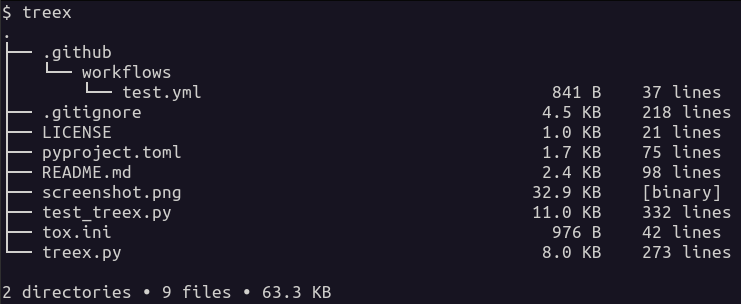
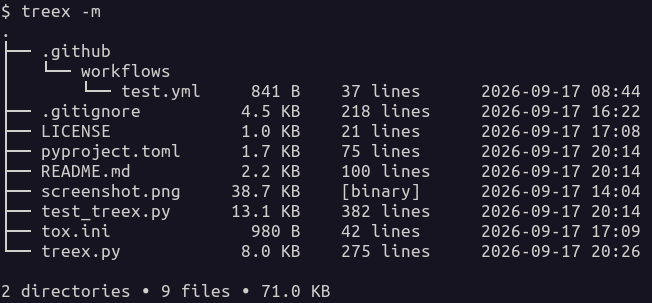
Make metadata column start automatically adjust (#2)

diff --git a/treex.py b/treex.py
@@ -2,21 +2,14 @@
 # SPDX-License-Identifier: MIT
 
 
-"""List directory contents in a tree-like format with file metadata.
+"""List directory contents as a tree with file metadata.
 
-The directory tree is rendered using Unicode box-drawing characters. File names are
-displayed with their human-readable size and, optionally, modification time. Text
-files also include their line count. Binary and unreadable files are marked with
-their type.
+The directory tree is rendered using Unicode box-drawing characters.
 
 When run inside a Git repository, files and directories ignored by Git
 are automatically excluded using Git's own ignore rules. If Git is not
 installed, or the directory is not part of a Git repository, the
 filesystem is scanned normally without Git filtering.
-
-Use --all to disable Git ignore filtering and show all files.
-Use --width to control the column at which file metadata starts.
-Use --modified to show file modification times.
 """
 
 import argparse
@@ -24,8 +17,6 @@ import subprocess
 from contextlib import suppress
 from datetime import datetime
 from pathlib import Path
-
-DEFAULT_METADATA_COLUMN = 50
 
 
 class GitIgnore:
@@ -132,76 +123,98 @@ def file_info(path):
     return size_text, f"{lines:,} lines", size, modified
 
 
-def print_tree(
-    directory,
-    prefix="",
-    stats=None,
-    gitignore=None,
-    width=DEFAULT_METADATA_COLUMN,
-    show_modified=False,
-    show_tree=True,
-):
-    """Recursively print the directory tree."""
-
-    def display(message):
-        if show_tree:
-            print(message)
-
-    if stats is None:
-        stats = {
-            "directories": 0,
-            "files": 0,
-            "total_size": 0,
-        }
-    path = Path(directory)
+def _get_tree_entries(path, gitignore):
+    """Get entries to include in the tree."""
     try:
         entries = list(path.iterdir())
     except PermissionError:
-        display(prefix + "└── [permission denied]")
-        return stats
+        return None
     # Filter ignored entries and Git's internal directory
-    visible_entries = [
+    entries = [
         entry
         for entry in entries
-        if not gitignore or (entry.name != ".git" and not gitignore.ignored(entry))
+        if not entry.is_symlink()
+        and (not gitignore or (entry.name != ".git" and not gitignore.ignored(entry)))
     ]
-    # Sort directories before files, group symlinks
-    # by target type, and sort names case-insensitive.
-    visible_entries.sort(key=lambda p: (p.is_file(), p.name.casefold()))
-    for index, entry in enumerate(visible_entries):
-        is_last = index == len(visible_entries) - 1
+    # Group directories first and sort names case-insensitive
+    entries.sort(key=lambda p: (p.is_file(), p.name.casefold()))
+    return entries
+
+
+def _collect_tree(
+    path,
+    prefix,
+    stats,
+    gitignore,
+    rows,
+    show_modified,
+):
+    """Walk the tree once and collect the output rows."""
+    entries = _get_tree_entries(path, gitignore)
+    if entries is None:
+        rows.append((prefix + "└── [permission denied]", None))
+        return
+    for index, entry in enumerate(entries):
+        is_last = index == len(entries) - 1
         connector = "└── " if is_last else "├── "
+        tree_name = prefix + connector + entry.name
         if entry.is_dir():
             stats["directories"] += 1
-            display(f"{prefix}{connector}{entry.name}")
+            rows.append((tree_name, None))
+            # Indent nested entries, preserving the tree's vertical branch
             extension = "    " if is_last else "│   "
-            print_tree(
+            _collect_tree(
                 entry,
                 prefix + extension,
                 stats,
                 gitignore,
-                width,
+                rows,
                 show_modified,
-                show_tree,
             )
         elif entry.is_file():
             stats["files"] += 1
             size_text, info, size, modified = file_info(entry)
             stats["total_size"] += size
-            # The complete tree/name portion is padded to the
-            # specified width so metadata lines up vertically.
-            tree_name = prefix + connector + entry.name
-            output = f"{tree_name:<{width}}{size_text:>10}    {info}"
-            if show_modified and modified is not None:
+            timestamp = modified if show_modified else None
+            rows.append((tree_name, (size_text, info, timestamp)))
+
+
+def print_tree(
+    directory,
+    prefix="",
+    stats=None,
+    gitignore=None,
+    show_modified=False,
+    show_tree=True,
+):
+    """Print the directory tree with aligned file metadata."""
+    if stats is None:
+        stats = {"directories": 0, "files": 0, "total_size": 0}
+    rows = []
+    # Walk the filesystem once and collect the output
+    _collect_tree(Path(directory), prefix, stats, gitignore, rows, show_modified)
+    if show_tree:
+        # Align file metadata with the longest tree/name
+        max_tree_name_width = max(
+            (len(tree_name) for tree_name, _ in rows),
+            default=0,
+        )
+        for tree_name, file_info_data in rows:
+            if file_info_data is None:
+                print(tree_name)
+                continue
+            size_text, info, modified = file_info_data
+            output = f"{tree_name:<{max_tree_name_width}}{size_text:>10}    {info:<10}"
+            if modified is not None:
                 output += f"    {modified}"
-            display(output)
+            print(output)
     return stats
 
 
 def parse_args(argv=None):
     """Parse command-line arguments."""
     parser = argparse.ArgumentParser(
-        description="List directory contents in a tree format with file metadata.",
+        description="List directory contents as a tree with file metadata.",
     )
     parser.add_argument(
         "directory",
@@ -228,14 +241,6 @@ def parse_args(argv=None):
         action="store_true",
         help="show summary only",
     )
-    parser.add_argument(
-        "-w",
-        "--width",
-        type=int,
-        default=DEFAULT_METADATA_COLUMN,
-        metavar="N",
-        help=f"starting column for file metadata (default: {DEFAULT_METADATA_COLUMN})",
-    )
     return parser.parse_args(argv)
 
 
@@ -245,9 +250,6 @@ def main():
     if not path.is_dir():
         print(f"Not a directory: {path}")
         return 1
-    if args.width < 1:
-        print("Width must be greater than zero.")
-        return 1
     # Only initialize Git support if it will be used
     gitignore = None if args.all else GitIgnore(path)
     show_tree = not args.summary
@@ -256,7 +258,6 @@ def main():
     stats = print_tree(
         path,
         gitignore=gitignore,
-        width=args.width,
         show_modified=args.modified,
         show_tree=show_tree,
     )

diff --git a/test_treex.py b/test_treex.py
@@ -284,6 +284,65 @@ class TestPrintTree:
         assert stats["directories"] == 0
         assert stats["files"] == 0
 
+    def test_tree_entries_sorted_with_directories_first(self, tmp_path):
+        (tmp_path / "zebra.txt").touch()
+        (tmp_path / "Alpha.txt").touch()
+        (tmp_path / "src").mkdir()
+        (tmp_path / "Docs").mkdir()
+        (tmp_path / ".git").mkdir()
+        entries = treex._get_tree_entries(tmp_path, gitignore=None)
+        assert [entry.name for entry in entries] == [
+            ".git",
+            "Docs",
+            "src",
+            "Alpha.txt",
+            "zebra.txt",
+        ]
+
+    def test_tree_entries_excludes_symlinks(self, tmp_path):
+        target = tmp_path / "target.txt"
+        target.touch()
+        link = tmp_path / "link.txt"
+        link.symlink_to(target)
+        entries = treex._get_tree_entries(tmp_path, gitignore=None)
+        assert [entry.name for entry in entries] == ["target.txt"]
+
+    def test_collect_tree(self, tmp_path):
+        (tmp_path / "src").mkdir()
+        (tmp_path / "src" / "main.py").write_text("print('hello')\n")
+        (tmp_path / "README.md").write_text("# README\n")
+        stats = {"directories": 0, "files": 0, "total_size": 0}
+        rows = []
+        treex._collect_tree(tmp_path, "", stats, None, rows, False)
+        assert [row[0] for row in rows] == [
+            "├── src",
+            "│   └── main.py",
+            "└── README.md",
+        ]
+        assert stats["directories"] == 1
+        assert stats["files"] == 2
+        assert stats["total_size"] == (len("print('hello')\n") + len("# README\n"))
+
+    def test_collect_tree_permission_denied(self, tmp_path):
+        rows = []
+        stats = {"directories": 0, "files": 0, "total_size": 0}
+
+        with patch.object(Path, "iterdir", side_effect=PermissionError):
+            treex._collect_tree(tmp_path, "", stats, None, rows, False)
+        assert rows == [("└── [permission denied]", None)]
+        assert stats["directories"] == 0
+        assert stats["files"] == 0
+        assert stats["total_size"] == 0
+
+    def test_tree_name_width_aligns_file_information(self, tmp_path, capsys):
+        (tmp_path / "a.txt").write_text("hello")
+        (tmp_path / "long_filename.txt").write_text("hello")
+        treex.print_tree(tmp_path)
+        lines = capsys.readouterr().out.splitlines()
+        size_positions = [line.index("5 B") for line in lines if ".txt" in line]
+        assert len(size_positions) == 2
+        assert size_positions[0] == size_positions[1]
+
 
 class TestArgumentParsing:
     def test_defaults(self):
@@ -292,7 +351,6 @@ class TestArgumentParsing:
         assert args.all is False
         assert args.modified is False
         assert args.summary is False
-        assert args.width == 50
 
     def test_directory(self):
         args = treex.parse_args(["/tmp/project"])
@@ -310,23 +368,15 @@ class TestArgumentParsing:
         args = treex.parse_args(["--summary"])
         assert args.summary is True
 
-    def test_width(self):
-        args = treex.parse_args(["--width", "100"])
-        assert args.width == 100
-
     def test_all_options(self):
-        args = treex.parse_args(
-            ["--all", "--modified", "--summary", "--width", "100", "/tmp/project"]
-        )
+        args = treex.parse_args(["--all", "--modified", "--summary", "/tmp/project"])
         assert args.directory == Path("/tmp/project")
         assert args.all is True
         assert args.modified is True
         assert args.summary is True
-        assert args.width == 100
 
     def test_short_options(self):
-        args = treex.parse_args(["-a", "-m", "-s", "-w", "100"])
+        args = treex.parse_args(["-a", "-m", "-s"])
         assert args.all is True
         assert args.summary is True
         assert args.modified is True
-        assert args.width == 100

diff --git a/README.md b/README.md
@@ -1,6 +1,6 @@
 # treex
 
-## List directory contents in a tree format with file metadata
+## List directory contents as a tree with file metadata
 
 - Copyright (c) 2026 [Corey Goldberg][github-profile]
 - Development: [GitHub][github-repo]
@@ -11,18 +11,14 @@
 
 ## About
 
-`treex` is a command-line utility (similar to [tree][tree-home]) that recursively
-scans a directory and prints its contents as a tree using Unicode box-drawing
-characters. File names include their human-readable size and, optionally,
-modification time. Text files also include their line count, while binary and
-unreadable files are marked with their type. When Git is installed, it respects
-`.gitignore` rules.
+`treex` is a command-line utility that recursively scans a directory and
+displays its contents as a tree along with file metadata.
 
-Requirements:
-
-- Python 3.10+
-- Git 2.0+ (optional)
-- UTF-8-compatible terminal
+- File names show human-readable sizes
+- Text files show line counts
+- Binary and unreadable files show their type
+- Modification timestamps are optional
+- Respects `.gitignore` rules when Git is installed
 
 ----
 
@@ -57,6 +53,14 @@ Requirements:
 
 ----
 
+## Requirements
+
+- Python 3.10+
+- Git 2.0+ (optional)
+- UTF-8-compatible terminal
+
+----
+
 ## Installation
 
 Install `treex` from [PyPI][pypi-home] using either `pip` or `pipx`:
@@ -70,9 +74,9 @@ Install `treex` from [PyPI][pypi-home] using either `pip` or `pipx`:
 
 ```
 $ treex --help
-usage: treex [-h] [-a] [-m] [-s] [-w N] [directory]
+usage: treex [-h] [-a] [-m] [-s] [directory]
 
-List directory contents in a tree format with file metadata.
+List directory contents as a tree with file metadata.
 
 positional arguments:
   directory       directory to scan (default: current directory)
@@ -82,7 +86,6 @@ options:
   -a, --all       show all files (including those ignored by Git)
   -m, --modified  show file modification times
   -s, --summary   show summary only
-  -w, --width N   starting column for file metadata (default: 50)
 ```
 
 ----
@@ -95,4 +98,3 @@ options:
 [github-repo]: https://github.com/cgoldberg/treex
 [pypi-home]: https://pypi.org/project/treex-cli
 [mit-license]: https://raw.githubusercontent.com/cgoldberg/treex/refs/heads/main/LICENSE
-[tree-home]: https://oldmanprogrammer.net/source.php?dir=projects/tree
